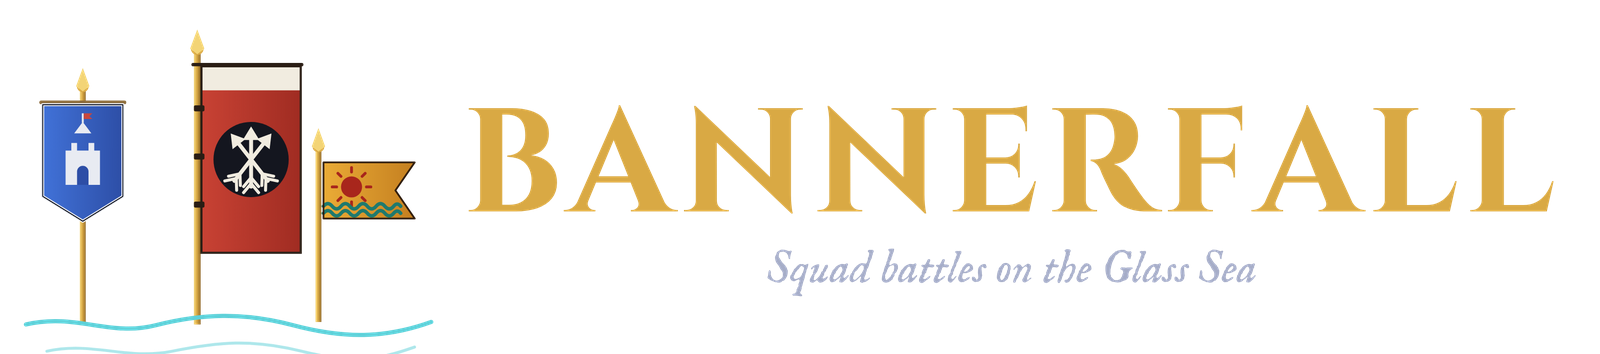
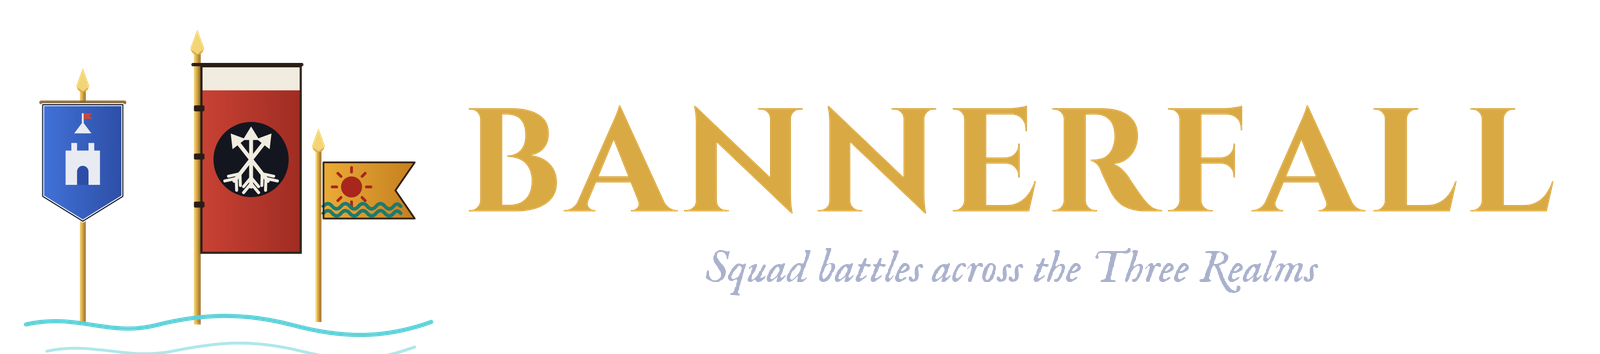
The world is the Three Realms; the sea has no name
Nothing is fought at sea, so its name goes: what was "the Glass Sea" is
"the Three Realms" in the game's text (the crown's ending, the tutorial,
the new-campaign page, the last deed), under the logo ("Squad battles
across the Three Realms"), in the main theme's title, the tools and the
docs. The water and its three lanes stay on the map, unlabelled. Saves
are untouched: the deed keeps its id.

Both trailers say it too: "The Three Realms. One crown." in Captains;
the first cut opens on "The Three Realms share one inland sea".

Claude-Session: https://claude.ai/code/session_01XvgEaynwvJ5LwK3YxENzf9

Changed region(s): [[0.4375, 0.6836, 0.8438, 0.839]]

diff --git a/tools/trailer2/cut.py b/tools/trailer2/cut.py
@@ -14,7 +14,7 @@ The story, on the bars of score.py (a bar is two seconds):
     0:22  black                          "Lead them anyway."
     0:24  the name
     0:26  the battles, a bar a shot      real-time battles, sized for your hand; charge, loose, hold; the walls
-    0:42  the world                      three realms, the lords, a wedding, a company to build
+    0:42  the world                      the Three Realms, the lords, a wedding, a company to build
     0:50  the last charge, a beat a shot
     0:58  victory
     1:00  the name, and "Coming to iPhone"
@@ -396,7 +396,7 @@ def picture(t):
     if t < bar(23):
         u = t - bar(22)
         img = wide("sea", 5.3 + u, u=u / 2.0, push=(1.0, 1.04))
-        said(img, t, bar(22) + 0.1, bar(23), [line("Three realms.", 110), line("One sea.", 110, BRASS)], (W / 2, H / 2 + 10), align="centre")
+        said(img, t, bar(22) + 0.1, bar(23), [line("The Three Realms.", 110), line("One crown.", 110, BRASS)], (W / 2, H / 2 + 10), align="centre")
         return img
     if t < bar(24):
         u = t - bar(23)
@@ -505,7 +505,7 @@ CAPTIONS = [
     (12.0, 16.0, "They remember every fight."), (16.2, 21.8, "And any of them can fall."),
     (22.0, 24.0, "Lead them anyway."), (24.0, 26.0, "Bannerfall"), (26.1, 28.0, "Real-time battles"),
     (28.1, 30.0, "Sized for your hand."), (30.0, 31.5, "Charge."), (32.0, 33.5, "Loose."), (34.0, 35.5, "Hold."),
-    (38.1, 42.0, "Take their walls."), (42.1, 44.0, "Three realms. One sea."), (44.0, 46.0, "Win the lords' regard."),
+    (38.1, 42.0, "Take their walls."), (42.1, 44.0, "The Three Realms. One crown."), (44.0, 46.0, "Win the lords' regard."),
     (46.0, 48.0, "Marry into a great house."), (48.0, 50.0, "Build a company worth following."),
     (58.0, 59.6, "Victory."), (60.5, 70.0, "Bannerfall\n" + END_LINE),
 ]

diff --git a/tools/trailer/edit.py b/tools/trailer/edit.py
@@ -4,7 +4,7 @@
     python3 tools/trailer/edit.py            # writes $TRAILER_OUT/bannerfall_trailer.mp4 and a thumbnail
 
 The score is the game's main theme (assets/audio/music/title.ogg, 80 s); the cut follows its
-shape: the quiet open for the Glass Sea, the swell for the title, the climax for the battles,
+shape: the quiet open for the map, the swell for the title, the climax for the battles,
 the tail for the end card. Under it, each clip keeps its own field sounds (recorded with the
 music off). Landscape clips (the battles, the map) fill the frame; portrait clips (the game's
 own screens) stand framed over a blurred copy of themselves, a caption beside them.
@@ -51,9 +51,9 @@ def bar(k):
 END_LINE = "Coming to iPhone"  # the end card's line, under the wordmark
 LORDS = ("Win the lords' regard", "Every lord remembers what you did.", "left")
 EDL = [
-    {"card": ("Three realms", "share one inland sea"), "to": bar(2), "fade": (1.0, 0.4)},
+    {"card": ("The Three Realms", "share one inland sea"), "to": bar(2), "fade": (1.0, 0.4)},
     {"shot": "map_fly", "at": 0.5, "to": bar(5), "fade": (0.4, 0.0),
-     "cap": ("The Glass Sea", "Stone keeps. Desert courts. Island castles.", "low")},
+     "cap": ("Vardmark. Kharzan. Ryumon.", "Stone keeps. Desert courts. Island castles.", "low")},
     {"shot": "map_isles", "at": 2.0, "to": bar(8), "fade": (0.0, 0.3)},
     {"shot": "opening", "at": 0.3, "to": bar(10), "fade": (0.3, 0.0), "frame": (0, 600, 1080, 960)},
     {"shot": "home", "at": 1.0, "sfx": 0.35, "to": bar(12), "frame": (0, 0, 1080, 1420),

diff --git a/tools/orchestral.py b/tools/orchestral.py
@@ -1,4 +1,4 @@
-"""The orchestral pieces: Home (The Glass Sea and the campfire versions), the battle music
+"""The orchestral pieces: Home (The Three Realms and the campfire versions), the battle music
 in layers, the battle's aftermath and its stingers. Recorded instruments (tools/sampler.py)
 carry the orchestra; the synthesized oud, ney, koto and shakuhachi from music.py keep each
 realm's own voice.
@@ -435,7 +435,7 @@ def deploy(realm):
 # ------------------------------------------------------------------ after the battle
 
 def rest_victory():
-    """Under the results when you've won: the Glass Sea's horn tune in D major, slowly."""
+    """Under the results when you've won: the main theme's horn tune in D major, slowly."""
     bpm = 72
     beat = 60.0 / bpm
     bar = beat * 4
@@ -527,7 +527,7 @@ HORN_2 = [(69, 2), (74, 2), (77, 2), (76, 1), (74, 1), (72, 3), (69, 1), (67, 2)
 
 
 def title():
-    """The Glass Sea, for a first visit to Home. Harp alone, then the horn sings, then the
+    """The Three Realms, for a first visit to Home. Harp alone, then the horn sings, then the
     violins take the tune up high with the whole orchestra under it, then it settles."""
     bpm = 72
     beat = 60.0 / bpm

diff --git a/tools/music.py b/tools/music.py
@@ -8,7 +8,7 @@ files.
 Music (the orchestral pieces are in tools/orchestral.py and the lands' themes and feasts in
 tools/realms.py, played by recorded instruments; the synthesized versions below stand in
 when the samples aren't fetched):
-  title       The Glass Sea: horn over harp and strings, D minor.
+  title       The Three Realms: horn over harp and strings, D minor.
   vardish     Vardmark: lute and recorder over a hurdy-gurdy drone, D dorian, in three.
   kharzani    Kharzan: oud and ney over a frame drum's maqsum, D hijaz.
   ryumon      The Ryumon isles: koto and shakuhachi with taiko, E in-scale.
@@ -463,7 +463,7 @@ def ryumon():
 
 
 def title():
-    """The Glass Sea: a horn over harp arpeggios and strings, D minor."""
+    """The Three Realms: a horn over harp arpeggios and strings, D minor."""
     bpm = 72
     beat = 60.0 / bpm
     bar = beat * 4

diff --git a/tools/trailer2/score.py b/tools/trailer2/score.py
@@ -497,7 +497,7 @@ def battles():
 
 
 def the_world():
-    """Bars 22-25: the Glass Sea. Half the pace: strings, harp, a flute; then the last rise."""
+    """Bars 22-25: the Three Realms. Half the pace: strings, harp, a flute; then the last rise."""
     drum("bd", at(22), 0.9)
     strike(T_METAL, CRASH[0], at(22), 0.35, fade=3.0, cut=5.0)
     boom(at(22), 0.6)

diff --git a/README.md b/README.md
@@ -2,7 +2,7 @@
 
 *Working title.* Real-time squad battles sized for a phone, inside a sandbox campaign in the spirit of Mount & Blade, set in an invented world. Built with **Godot 4.7** in GDScript, targeting iPhone first, with Steam and Android from the same project.
 
-This slice is the start of a campaign: pick a people, ride the map of the Glass Sea, and fight the bandits on its roads in real-time battles, or send your men in without you. Your warband carries over between battles and has to be paid and fed: the men you lose stay lost until you pay to reinforce them in a town, bandit bounties and spoils keep the purse full, squads that kill can be trained, and renown lets you lead more squads.
+This slice is the start of a campaign: pick a people, ride the map of the Three Realms, and fight the bandits on its roads in real-time battles, or send your men in without you. Your warband carries over between battles and has to be paid and fed: the men you lose stay lost until you pay to reinforce them in a town, bandit bounties and spoils keep the purse full, squads that kill can be trained, and renown lets you lead more squads.
 
 ## What's in it
 
@@ -19,7 +19,7 @@ This slice is the start of a campaign: pick a people, ride the map of the Glass 
 - **A UI that moves like a game.** Every button sinks under the thumb and springs back, and brass ones tick; sheets ease out the way they ease in; a tab change slides its underline and turns the page; what a tap cost or brought rises off the silver or food, a lord's new Regard rises by his face, and what a tap made glows; the battle result tells itself in under two seconds (tap to finish); hours that passed out of sight sweep by on the map's clock; a road encounter brings the camera in on the two parties; letters drop in from behind the top bar; deeds, captains ready for a role, a band riding after you and a war declared arrive as a ribbon (held longer at bigger text; a tap puts it away); their words in a conversation are written out (Settings: *Text appears at once*); faces slide into a scene, rooms after dark breathe with firelight, and the wedding's bunting sways. All of it is still under *Reduced motion*.
 - **Battle results that say only what happened.** The result card is the picture of the field with its place, why it ended, the tallies as tiles (your slain and wounded, theirs down) and the spoils counting up. Under *Your companies* are only the companies with something to tell, fallen or wounded captains first: the captain's face with a badge for their fate (a star for the hardest fighting), men out of men in, kills, the death roll and *Ready to train* when this fight earned it. The rest are one line, "8 other companies saw no fighting."
 
-- **The Glass Sea.** An invented inland sea shared by three realms: the **Kingdom of Vardmark** on the northwest shore (stone keeps and armored knights), the **Sultanate of Kharzan** across the southern deserts (walled cities and swift riders), and the **Ryumon Shogunate** on the islands beyond the eastern strait (disciplined archers and spearmen). Twenty-one settlements: in each realm a town, two castles and four villages, every village bound to a castle or town, joined by roads and three sea lanes. Who holds each place, and who is at war with whom, are the world's own and kept in your save, ready for the realms to fight over them.
+- **The Three Realms.** Three realms share an invented inland sea: the **Kingdom of Vardmark** on the northwest shore (stone keeps and armored knights), the **Sultanate of Kharzan** across the southern deserts (walled cities and swift riders), and the **Ryumon Shogunate** on the islands beyond the eastern strait (disciplined archers and spearmen). Twenty-one settlements: in each realm a town, two castles and four villages, every village bound to a castle or town, joined by roads and three sea lanes. Who holds each place, and who is at war with whom, are the world's own and kept in your save, ready for the realms to fight over them.
 - **Choose your people.** A new campaign starts with a choice of culture. Your captains take its names, your companies its words ("Brann's Pikes", "Tariq's Spears", "Hideo's Yari"), your troops its names (Footmen, Askari, Samurai), and you start at its capital. Cultures fight alike for now; their stats will differ later.
 - **Ride the roads.** Tap a settlement to see it and ride there. Time passes only while you ride or wait, an hour a second (two at 2x), and stops the moment anything needs you. Sea lanes are slower than roads. Drag to look around, pinch or scroll to zoom, double-tap to find your party.
 - **A living map.** A ragged coastline with beaches and surf breathing against it, turquoise shallows over a deep sea, hills shaded by the light, and each realm's own country: Vardmark's meadows, woods and grey peaks, Kharzan's sand, dunes, palms and red mesas, the Ryumon isles' pines, cherry blossom and snow-capped mountains, with fields, dry plots or paddies around every village. Three rivers run down to the sea: the Raven past Ravensford, the Qamar through the desert, and the Kumo on the isles, each forded where a road crosses it. Each culture builds its own towns, castles and villages: Vardish stone keeps under slate and red tile, Kharzani sandstone walls, domes and minarets, Ryumon castles of stacked black roofs on stone bases. Your rider trots along the road under your banner, kicking up dust; bandit bands march under ragged ones. The light follows the clock, gold at dawn and dusk and blue at night, when the settlements' lamps are lit, and cloud shadows drift across land and sea. A campaign starts at eight in the morning.
@@ -67,13 +67,13 @@ This slice is the start of a campaign: pick a people, ride the map of the Glass 
 - **Playable sieges.** Under contract or holding a fief, ride to an enemy castle or town and *Storm the walls*: lead the assault in a battle with a wall across the field and a gate your men on foot must batter down (the garrison holds behind it, sheltered from arrows, until it gives), or send them in. Friendly lords camped at the walls join you. A win hands the place to your side, and some of the stormers (the lords beside you first, then your own men) stay on as its garrison. Riding with an allied army, you're asked to lead its assault; when an army storms your own fief while you're there, you can hold its walls yourself, with the garrison beside you. Besieged places are ringed on the map with the besiegers' camp, and their sheet shows both sides, the walls, the food left and when the assault comes. **Siege engines**: storm off the march and you have two ladders and axes for the gate; *Lay siege* and your men build in camp (more men, faster): a roofed ram, mantlets for your bows, four ladders, a siege tower that lays a bridge onto the wall walk, and up to two stone throwers (a Vardish trebuchet, a Kharzani mangonel that throws naphtha, a light Ryumon thrower) that knock at the walls every day you camp. The garrison's food runs down while you build, and it may sally at night to burn what you've built. In the battle your companies work the engines: tap a thrower and tap a stretch of wall, the gate or an enemy engine to aim it; stones bring sections of wall down into rubble, a second way in. The walls answer with bolt throwers on their towers, oil over a castle's gate, a stone thrower in a capital's courtyard, fire arrows (pick bows, tap an engine) and a postern to sally from. Lords' armies build by their size. A castle or town you hold can buy *Siege Works* and *Tower Bolts*, and walls broken in an assault stay broken for a few days.
 - **Raiding.** At war with a realm, ride to one of its villages and *Raid the village* (from the map, or *Raid* on the town's Gates barred card). The side you serve is never fair game: under contract or sworn as a vassal, however low your standing with them falls, their villages can't be raided until the contract ends or you renounce your oath or raise your own crown. Its 15 militia scatter if you outnumber them three to one and nobody's stationed there; otherwise they fight for their homes, in a battle among the houses you can lead or send your men into. A burned village gives you 150 silver and 40 rations (and the spoils of any fight), pays its realm nothing and offers no recruits for a week, and adds to that realm's war weariness; the realm thinks worse of you (−10), and with a crown your Honorable lords think less of you (−3) and Cruel ones approve (+2). Your men then spend six hours loading the carts, and the realm's lords within reach ride to catch them, as they would any raider.
 - **Your own crown.** The road is shown from the first day: *Toward a crown* on the Warband's Deeds tab (and on your seat's Fief tab) lists the five steps, each ticked or open with what it still needs: a fief, walls, 200 renown, no contract, and being at your seat. A famous company holding a castle or a town (not a village: a crown needs walls) can raise its own banner at its seat: the seat becomes the capital of a new realm in your colours, the old liege goes to war, and every castle or town you storm after that is yours, paying your purse and raising its garrison from the crown treasury; the seat keeps its guards, and a vassal granted a castle keeps that castle's. A vassal holding a village can ask their liege, from the village's Fief tab, for a castle that has lost its lord (standing kept; the village's buildings stay with it), and only squads you stationed can be taken back from a garrison. Its own screen (Menu → Your Crown) has four tabs:
-  - *Realm*: name your crown and pick its colour (banners and the map follow), see the treasury and what each day brings in, draw from the treasury (your lords notice) or pay into it, and track the goal: hold Highcliff, Khalun and Kurogane and the Glass Sea is yours (+100 renown; play on as long as you like). Hold nothing for three days and the crown falls: its lords go back to their old allegiances, its wars end, and the company rides free to raise a banner again another day.
+  - *Realm*: name your crown and pick its colour (banners and the map follow), see the treasury and what each day brings in, draw from the treasury (your lords notice) or pay into it, and track the goal: hold Highcliff, Khalun and Kurogane and the Three Realms are yours (+100 renown; play on as long as you like). Hold nothing for three days and the crown falls: its lords go back to their old allegiances, its wars end, and the company rides free to raise a banner again another day.
   - *Holdings*: every castle, town and village with its garrison, who holds it and a pin to find it. Grant a castle or town to a sworn lord (+15 Regard; whoever held it before resents losing it) and it becomes their seat; take it back at a cost. At a crown castle or town that isn't your seat, its Crown tab does the same and lets you station your own squads with the garrison. Stationed squads stay yours (through saves too) and draw half wages, from your seat's silver before your purse.
   - *Lords*: your sworn lords, their Regard, land and what they're doing. Order one to ride with you (they follow you and join your fights), to hold a place, or to go about the realm's business. The same orders are lines in a conversation with them.
   - *Court*: rule from anywhere. The tab is three cards, a gathering, the banners and petitions, each a line of status that opens a page of its own; what each choice is worth in Regard is on one rules sheet behind *?*, the war council puts each lord's face on the aim they back (tap a face to hear them), and *March!* shows who rides and what each lord makes of it before anyone moves. Your own hall reads the same way: the table's three actions (speech, gifts, gossip) as short buttons, a strip of faces to seat a lord at your right hand, petitions as a face, the ask and Grant or Refuse, the lists as your captains' faces to tap (up to three), and the result as who won, with every bout folded under it; *?* opens the same rules sheet. **Hold a gathering**, a feast, a dance or a **tourney** (300 silver, 200 rations, a 100-silver purse for a tourney; once every 20 days), at your seat or any castle or town of yours (a lord's hall means he hosts it in your name, +5 Regard); you needn't be there to call it, but miss the first night and the lords you were winning over notice (−3). At your own table, instead of a guest's toast and gift: a **seat of honour** for one lord (+8; lords of more renown feel passed over, −2), **gifts from the king** (30 silver a head, +3 each), **the king's speech** (renown 120; +2 with the hall, and at war it makes the case: +10 conviction with lords you're winning over, and your sworn lords count as ready to ride for a week), **petitions** heard at table (+5 rather than +2 from afar; a castle granted before everyone is +30 and +3 with every other lord who sees it), and at a tourney **the lists**: up to three of your captains against a champion of every lord in the hall, a single pass each bout, by the duel's own odds; the winner takes the purse (your captain: +10 renown and a bond with the others who rode; a lord's champion: +5 with him), every lord who rode +2, and a captain unhorsed is sometimes hurt, never killed. **Petitions** come from your lords' own state: a lord without land asks for the castle you have free (each castle to one lord at a time), a lord whose seat was burned asks for 100 silver from the treasury, a lord who thinks little of you wishes to be heard, and a band preying on a lord's lands is one petition (you take the hunt); settle or refuse (−5), and they don't ask again for a week. **Call the banners**: every sworn lord rides to a muster at a castle or town of yours (a red ring of spears on the map, "riding to the muster" on their plates, an entry in the journal), except those holding a place by your order, captives and the regrouping; a bought lord who thinks little of you refuses (−10). The treasury feeds the muster, a silver a day for every ten men; unfed for more than a day, it goes home. Once two lords are in the hall the **war council** sits (from the Court tab anywhere, or the hall itself): each lord speaks in his bearing's voice (Daring for the storm, Cautious to hold or relieve, Cruel to raid, Honorable for relief and against burning farms), you choose the aim (storm one of the three nearest enemy castles and towns; relieve a holding of yours under siege; hold the march between the muster and your holding nearest the enemy; raid the two nearest enemy villages) and who leads. **Led by you**, your lords ride at your side and join every fight and siege you take on; **led by a lord**, they march as a marshal's army, stand under a besieged holding until the siege breaks, ride the march back and forth, or burn the villages and come home. The treasury pays six days' provisions up front; if it can't, the host stays out three. Every lord who rides +5, once; a lord whose counsel you passed over −2; an Honorable lord asked to raid rides home (−5). The host goes home when its aim is met or its days are done, or when you dismiss it. The old quick call stays: two ready lords from your capital, on their own, against the castle you name.
   - *Diplomacy*: each realm: at war, at peace, allied or under truce, how weary of war they are, and what they pay or are paid. Declare war (your Honorable lords think less of a war you start, −5), propose an alliance, or sue for peace, whose terms show first: the wearier side pays the other tribute for a while. The crown's wars end only when you make peace, and a realm says when it would accept it now. A crown worth fearing draws rivals: a rested realm stronger than you may declare war on it.
   - Captive lords can swear fealty (honorable ones won't), and lords on the road can be won over in conversation.
-- **Company deeds.** Eleven optional deeds, from serving a contract to its end to storming walls or keeping a captain alive through ten battles. The Warband shows your progress; each earned deed is a name the company can carry ("Known as the Wallbreakers"). Names bring nothing else, and no deed ends the campaign. The last, for a crown, is to hold every castle and town on the map at once (Keepers of the Glass Sea).
+- **Company deeds.** Eleven optional deeds, from serving a contract to its end to storming walls or keeping a captain alive through ten battles. The Warband shows your progress; each earned deed is a name the company can carry ("Known as the Wallbreakers"). Names bring nothing else, and no deed ends the campaign. The last, for a crown, is to hold every castle and town on the map at once (Keepers of the Three Realms).
 - **Camp feels like home.** The Warband's camp shows every captain at the fire, ready or resting with wounds, each a tap from their profile, under the light of the hour. One optional moment at a time comes from what really happened: a captain mourned by the friend they were bonded to, the captain who fought hardest speaking of the last battle and where it was fought, a shortage, a wound. Each has three lines for every temper, taken in turn, so the same one never comes twice running; a fallen captain waits to be mourned even if another battle comes first; and a hero speaks in their own voice.
 - **Veteran promotions.** A captain with 5 battles or 15 kills earns a veteran role: Scout, Quartermaster or Drillmaster for the whole host (only one holder counts, and the screen says so), or Champion for their own company. The Warband flags it ("★ Promotion ready", and a count on Companies), and the captain's profile puts the choice first, each role with what it does and whom it reaches. A tap picks one and Promote makes it, since it can't be changed. The profile itself is cards under an arched portrait: the record as tiles, traits and role explained once, company progress and bonds as meters, each bond a tap from that captain, and Back pinned at the bottom.
 - **Consequences that linger.** Notable battles are recorded where they happened, and for three days the map marks them with crossed blades, and changes of hands with a fresh banner, before they fade into the chronicle.
@@ -115,7 +115,7 @@ This slice is the start of a campaign: pick a people, ride the map of the Glass 
 
 ### Sound and feel
 
-- **Music for every place**, composed for the game (`tools/music.py`, `tools/orchestral.py`). Home opens on The Glass Sea, played by a recorded orchestra: harp alone, then the horn's tune, then the violins take it up over the whole orchestra before it settles; once you have a campaign, Home plays your own realm's tune by the campfire instead. On the map, the music of the realm you're riding through, crossfading as you cross a border: lute and recorder over a hurdy-gurdy drone in Vardmark, oud and ney over a frame drum's rhythm in Kharzan, koto and shakuhachi with taiko on the Ryumon isles.
+- **Music for every place**, composed for the game (`tools/music.py`, `tools/orchestral.py`). Home opens on The Three Realms, played by a recorded orchestra: harp alone, then the horn's tune, then the violins take it up over the whole orchestra before it settles; once you have a campaign, Home plays your own realm's tune by the campfire instead. On the map, the music of the realm you're riding through, crossfading as you cross a border: lute and recorder over a hurdy-gurdy drone in Vardmark, oud and ney over a frame drum's rhythm in Kharzan, koto and shakuhachi with taiko on the Ryumon isles.
 - **Battle music in layers**: while you deploy, a drone, a heartbeat drum and a call to arms in the enemy's style (Vardmark's horns, Kharzan's ney, Ryumon's shakuhachi and taiko; sieges have their own, heavier). Press Fight and the full music starts: drums and a string ostinato written to carry on a phone speaker, the tune swelling in as more of the field is fighting, bright trumpets when the fight goes your way and dark tremolo when your lines waver. Each piece runs a minute, in four sections with a breakdown before the climax. The victory or defeat call waits for the beat, then a quiet piece plays under the results.
 - **Battle effects**: sparks fly where blows land, with a spatter now and then, and a warm glow along the front shows where the lines meet. Dust trails every squad on the move, thicker behind horses and coloured by the ground, and charging riders stream speed lines. Arrows trail streaks and the ground darkens where a volley will land. Men stagger and fall rather than vanish, leaving shield, weapon and a dark patch; a broken squad strews its gear and leaves its standard in the mud. Standards ripple in the wind; a wavering squad's men glance back over their shoulders; when their captain falls, time slows and the field darkens round him; and when the battle is won, the winners cheer under glowing standards before the result comes up. Reduced motion stills the ripple, glances, cheer and speed lines.
 - **Drawing a battle cheaply**: every man in a battle is one draw. Each frame of each kind of soldier, in each side's colours, sits in a single atlas texture (`scripts/art/unit_art.gd`), and the men and their shadows go into a MultiMesh on their own layer, with a small shader that picks each man's frame and paints his hit flash; the dead are one draw per kind of body. The field is three layers, bottom to top: the ground, the dead and the orders; the men; then trees, arrows in flight, standards and words. On the same frozen 12-against-12 battle the drawing code went from about 19 ms a frame to 13, and the renderer's own work from 34 ms to 24 (measured with a software renderer; a phone's GPU takes most of the second number off the CPU). **Settings › Show performance** puts a readout at the bottom left of the field: what the sim, the drawing and the renderer cost a frame, frames a second, the worst frame of the last second, and how many men and companies are on the field. Under the men, the ground, its slopes and props are drawn once into layers that the camera only moves, and what lies on the ground (scars, dropped gear, arrows stuck in the earth) is redrawn at most twice a second, the newest drawn each frame until then. Each standard's cloth and glyph is built once as one triangle list and waved by a shader, so a flag is one draw. A squad choosing a target checks only the squads already going for each enemy. Together these took the standards from 1.9 ms a frame to 0.7, the field pass from 2.5 ms to about 1.3, and target picking in the sim from 1.5 ms a tick to 0.5. Keeping the crowd apart reads every man's place and size once into flat arrays rather than looking them up for each pair, which makes the whole sim about a fifth faster and helps most where men are packed tightest. The battles come out the same move for move.
@@ -125,7 +125,7 @@ This slice is the start of a campaign: pick a people, ride the map of the Glass 
 - **A start and an end.** *Fight* puts up a title card (the place, the ground and the hour, the odds and the scouts' word on their commander) while the view pulls out from your line; the battle waits for it, and a tap clears it. When it's decided, VICTORY stamps on the field under a spotlight on the last squad to break, or the colour drains from the field under DEFEAT, before the result, which now opens on a picture of the field. The tray feels the fight: a card's edge flashes red when its squad is charged or flanked, a broken squad's card cracks and shakes, morale bars and the strength bar ease down with a pale bite for what was just lost, and an ability coming ready pulses once with a click. Pausing greys the field. The death roll's plate drops in, its die tumbles and bounces as it lands, the odds fill before the number, and FALLEN stamps down. *Screen shake: off, light or full* in Settings; reduced motion keeps every word and state and stills every offset, stamp, zoom and shake, the hit flash on each man, the gate's flash and the stop when a charge lands. An enemy lord's fall is one roll: the moment says he falls, and whether he is taken or slain, as the result will. The one-time card about the ground or the objective comes up once *Fight* is pressed, and the battle waits for it. Wounded men are explained on the result: they rejoin over the coming days, and still eat and draw pay.
 - **Battle sounds** that play where they happen, from the left or right of the screen, duller and quieter when you're zoomed out. Blows ring out where the lines meet, matched to who's fighting (sword on sword, a thunk on a shield, spear shafts knocking, axes and maces crashing), each in a dozen takes that never repeat back to back, over the din of the melee that swells and fades with the fighting. Arrows, bolts and javelins are heard going up and coming down. Men roar as they charge, horsemen thunder into the line, shields lock with a shout when spears brace, a squad that breaks scatters shouting while the other side cheers, a captain falls with a gasp from the ranks. Sieges have the ram's blows on the gate, ladders clattering on stone and the gate giving way. Each realm sounds its own calls to start, charge and retreat (Vardmark's horns and trumpets, Kharzan's shawm and drums, Ryumon's conch and taiko), and its distant horn when more of them come. Built from recorded metal and wood (public domain) with synthesized bodies and crowds, every sound carries on a phone speaker, and a limiter keeps the loudest moments clean. Each battle sound plays at its own target level over the battle music (which sits lower than music elsewhere): routine blows and arrows a few dB over the drums, charges, horns and a captain's fall well over them, the din of the melee under them. Every take is trimmed from its measured level (`tools/sfx_levels.py` writes `scripts/data/sfx_levels.gd`), so no blow is lost to a quiet recording.
 - **Other sounds**: the snap and twang of crossbows, the whoosh of thrown javelins, horse archers loosing on the move, a fanfare when a chief's guard breaks or he falls, the river running through a ford and birds in a wood under the battle music, the rattle of the death roll's die and a bell when it lands on death; on the map, open-road wind, woods, water, night and settlement-edge ambience crossfade under foot or cavalry movement, with an alarm horn when bandits block the road and coins when you buy or hire.
-- **Feel**: screens fade into one another (a plain cut under Reduced motion), every button clicks and gives under your finger, map sheets and the battle result ease into view, and the title screen drifts over the Glass Sea at dawn. Music and sound can each be switched off on the dedicated Settings page, alongside text size, reduced motion, screen shake and vibration (and full screen on a computer); the choices are kept on the device. A tap anywhere on a setting's row flips its switch. Escape, or a phone's back, closes the sheet on top or goes back a page, and on the map opens or closes the campaign menu.
+- **Feel**: screens fade into one another (a plain cut under Reduced motion), every button clicks and gives under your finger, map sheets and the battle result ease into view, and the title screen drifts over the map at dawn. Music and sound can each be switched off on the dedicated Settings page, alongside text size, reduced motion, screen shake and vibration (and full screen on a computer); the choices are kept on the device. A tap anywhere on a setting's row flips its switch. Escape, or a phone's back, closes the sheet on top or goes back a page, and on the map opens or closes the campaign menu.
 
 ## Run it
 
@@ -158,7 +158,7 @@ The project uses the Compatibility renderer, which also runs in the iOS Simulato
 | `scenes/settings.tscn`, `scenes/tutorial.tscn` | Device audio preferences and an optional six-step walkthrough. |
 | `scenes/bond_intro.tscn` | The saved first-rank-C bond introduction. |
 | `scenes/new_campaign.tscn` | Choose your people. |
-| `scenes/world_map.tscn` | The map of the Glass Sea: travel, settlements, encounters. |
+| `scenes/world_map.tscn` | The map of the Three Realms: travel, settlements, encounters. |
 | `scenes/settlement.tscn` | A settlement: buy food, hire recruits, reinforce and train. |
 | `scenes/main_menu.tscn` | The Warband screen: purse, squads, captains, bonds, the fallen, reinforcing. |
 | `scenes/battle.tscn` | The battle screen. |
@@ -228,7 +228,7 @@ Add `-- --balance` to also fight three scripted players against every kind of co
 ## Roadmap
 
 - [x] One battle that plays well on a phone
-- [x] A world to ride: three cultures around the Glass Sea, travel, bandits on the roads
+- [x] A world to ride: the three cultures of the Three Realms, travel, bandits on the roads
 - [x] Reasons to ride: silver, food and wages, recruiting by culture, training, renown, auto-resolve
 - [x] A first look and sound: troops dressed by culture, a living map, music and sound for every place
 - [x] Phase 3: battlefield terrain, culture troop trees, objectives and encounter variety (`docs/phase-3-plan.md`)

diff --git a/docs/youtube-marketing-plan.md b/docs/youtube-marketing-plan.md
@@ -90,7 +90,7 @@ Four kinds of video. Each exists for a different job.
 | Video | Length | When | What it is |
 | --- | --- | --- | --- |
 | **Announcement trailer** | 1:10 | The day the first destination is live | *Captains* (`tools/trailer2/`): it opens on a charge in slow motion, tells the one thing the game does that others don't (every captain has a name, and any of them can fall: the die lands on Rowan of Thornwall), then the name, the battles, the world and victory, to a score written for it. Built already. |
-| **A tour of the game** | 1:20 | A fortnight later, or not at all | The first cut (`tools/trailer/edit.py`): the Glass Sea, the warband, the lords, the wedding, then thirty seconds of battles, to the game's main theme. Slower and fuller: a second video for viewers who want to see more, not the one to lead with. |
+| **A tour of the game** | 1:20 | A fortnight later, or not at all | The first cut (`tools/trailer/edit.py`): the map, the warband, the lords, the wedding, then thirty seconds of battles, to the game's main theme. Slower and fuller: a second video for viewers who want to see more, not the one to lead with. |
 | **Battle trailer** | 0:30 | Two to four weeks later | Battles only, in portrait with the HUD, no cards before the first clash. One recording serves three places: a Short, the default link for creators, and the first **App Store app preview** (Apple allows up to three, 15 to 30 seconds each, of footage from the app itself, at its own preview sizes). |
 | **A realm each** | 0:30 × 3 | Spread through the build-up | Vardmark, Kharzan, Ryumon: its country on the map, its lord's talk, its troops in a fight, its music (`vardish.ogg`, `kharzani.ogg`, `ryumon.ogg`). The Kharzani and Ryumon spots are also the adverts for the paid peoples. |
 | **Launch trailer** | 1:00 | Launch day | The announcement cut again with the newest footage, review quotes if there are any, and "Out now on the App Store" on the end card. |
@@ -167,8 +167,8 @@ Ready to paste once the name and the link are final.
 
   ```
   Every company has a captain. Every captain has a name. Any of them can fall. Lead them
-  anyway: real-time squad battles sized for your hand, in a sandbox campaign across three
-  realms of the Glass Sea. Coming to iPhone.
+  anyway: real-time squad battles sized for your hand, in a sandbox campaign across the
+  Three Realms. Coming to iPhone.
   Pre-order on the App Store: <link>
 
   Three realms share one inland sea: the stone keeps of Vardmark, the desert courts of
@@ -185,7 +185,7 @@ Ready to paste once the name and the link are final.
 
   0:00 The captains
   0:26 The battles
-  0:42 The Glass Sea
+  0:42 The Three Realms
   0:58 Victory
 
   Music: "Who Carries the Banner", composed for this trailer.

diff --git a/docs/paid-features-plan.md b/docs/paid-features-plan.md
@@ -3,8 +3,8 @@
 - **Date:** 2026-11-04
 - **Status:** proposed. Nothing here is built.
 - **Model in one line:** the game is free to download and whole as the Vardish. The Kharzani
-  and the Ryumon are paid peoples, each a different home, cast, army and opening on the same
-  Glass Sea. Everything sold is a one-time purchase that restores on a new phone. Nothing sold
+  and the Ryumon are paid peoples, each a different home, cast, army and opening in the same
+  Three Realms. Everything sold is a one-time purchase that restores on a new phone. Nothing sold
   makes a battle easier, saves a captain, or buys silver.
 
 ## Why this model fits this game
@@ -45,7 +45,7 @@ asked to pay to *be* them.
 | --- | --- | --- | --- |
 | **The Kharzani** | `.people.kharzan` | $3.99 | Begin as the Kharzani: Khalun, a Kharzani company, the Sultan's lords as kin, the *Debt of Khalun* opening, two people's deeds, the painted Khalun plate. |
 | **The Ryumon** | `.people.ryumon` | $3.99 | Begin as the Ryumon: Kurogane, a Ryumon company, the Shogun's lords as kin, the *Writ Across the Strait* opening, two people's deeds, the painted Kurogane plate. |
-| **Peoples of the Glass Sea** | `.people.all` | $5.99 | Both peoples. The bundle is the product most people should buy; the singles exist so no one has to buy a people they do not want. |
+| **Peoples of the Three Realms** | `.people.all` | $5.99 | Both peoples. The bundle is the product most people should buy; the singles exist so no one has to buy a people they do not want. |
 | **Heraldry & Regalia** | `.regalia` | $1.99 | Six more crown colours, eight banner devices for the company and the crown, captain portrait frames by rank, and a different Home title theme for a crowned company. Cosmetic only. |
 | **Chronicler's Edition** | `.chronicler` | $7.99 | Everything above, plus the Chronicle export (the campaign's chronicle as a shareable image) and a line in the credits roll. For the player who wants to pay once. |
 
@@ -351,7 +351,7 @@ routines, so no external art.
   Today a company flies its realm's banner; the device would sit on it in the crown colour.
 - Captain portrait frames by rank: plain, brass at five battles, laurel at ten (the Old
   Guard). Drawn as a frame around the existing portraits.
-- An alternate title theme for a crowned company (a variation of the Glass Sea theme with
+- An alternate title theme for a crowned company (a variation of the main theme with
   the people's instrument forward; `tools/music.py` renders it).
 
 ## Package F: the Chronicler's Edition

diff --git a/tools/trailer/README.md b/tools/trailer/README.md
@@ -16,7 +16,7 @@ Needs Godot 4.7 as `godot`, `ffmpeg`, Python 3 with Pillow, and `xvfb-run` when 
 | `shots.txt` | Each shot, how many seconds to record, and portrait (the game's own screens) or landscape (battles and the map, full frame). |
 | `capture.gd` | Sets the game up for one shot (`SHOTS`): a campaign of a given people at a given hour and place, a lord's talk, the wedding, or a battle. It can press replies on cue (`taps`). Nothing is saved, and preferences go to a scratch file. The music is off: the trailer is scored separately and the clips keep their field sounds. |
 | `battle_cam.gd` | Puts the battle HUD away and holds the camera on the fighting (the clash, one squad, or a pan), keeping the screen's own shake. |
-| `map_cam.gd` | Puts the map HUD away and drifts the camera across the Glass Sea. |
+| `map_cam.gd` | Puts the map HUD away and drifts the camera across the map. |
 | `taps.gd` | Presses a reply by id or by its words at a given second. |
 | `record.sh` | Records one shot: `record.sh <shot> <seconds> [portrait\|landscape]`. A temporary `override.cfg` sizes the window. |
 | `edit.py` | The cut (`EDL`, 80 s, cut on the bars of the main theme `title.ogg`): cards, clips, captions in the game's fonts, the clips' own sound under the theme, loudness set for YouTube (-14 LUFS), and a 1280x720 thumbnail. The end card's line ("Coming to iPhone") is `END_LINE`. It also writes the words on screen as `bannerfall_trailer.srt`, to upload beside the video. |

diff --git a/docs/phase-5-plan.md b/docs/phase-5-plan.md
@@ -6,7 +6,7 @@ in the baggage train and mend over days on the road or in camp, saving silver an
 protecting veteran experience. Captains who survive the crucible of battle earn
 reputation and choose a company specialization—Scout, Quartermaster, Drillmaster,
 or Champion. Unique wandering heroes can be found and recruited in taverns across the
-Glass Sea. A dedicated Casual Mode offers an accessible journey where captains are
+Three Realms. A dedicated Casual Mode offers an accessible journey where captains are
 severely wounded rather than permanently slain.
 
 ---
@@ -70,7 +70,7 @@ severely wounded rather than permanently slain.
 ## 5.4 Unique Named Heroes (Companions)
 
 ### Design
-- Three unique legendary wanderers appear in town taverns across the Glass Sea:
+- Three unique legendary wanderers appear in town taverns across the Three Realms:
   1. **Sir Katherine of the Pale** (Vardish Knight, Highcliff): Exiled knight of House Dunmere; *Steadfast*, *Drillmaster*, unique plate armor portrait.
   2. **Tariq Windrunner** (Kharzani Faris, Khalun): Desert scout and outcast; *Lucky*, *Scout*, unique turban and faris mail portrait.
   3. **Mori the Unbroken** (Ryumon Ronin, Kurogane): Masterless swordsman; *Vengeful*, *Champion*, unique scarred hatamoto portrait.

diff --git a/docs/playtest-audit.md b/docs/playtest-audit.md
@@ -415,7 +415,7 @@ first hour on a phone.
 - **4.7** Reparations: 100 silver plus 10 per point below −20 sets standing to −15, once a
   week per realm. "They declare war upon you" now says what really happens (they count you
   an enemy and bar their gates), with the number.
-- **4.13** The post-crown goal is a deed, *Keepers of the Glass Sea*: every castle and town
+- **4.13** The post-crown goal is a deed, *Keepers of the Three Realms*: every castle and town
   under the crown at once.
 - **5.1** "We'll speak another time" now leaves you acquainted, and the hub offers the
   unspoken intent at the top of every later chapter until one is chosen.

diff --git a/docs/phase-4-plan.md b/docs/phase-4-plan.md
@@ -1,6 +1,6 @@
 # Phase 4: A living world
 
-The Glass Sea stops waiting for you. Lords of the three realms ride the roads with warbands
+The Three Realms stop waiting for you. Lords of the three realms ride the roads with warbands
 of their own, hunt bandits, raid each other's villages, gather into armies and besiege
 castles and towns, which change hands. Realms go to war and make peace without you. You can
 stay a free company hunting bandits, or sign on as a mercenary with any realm, fight its
